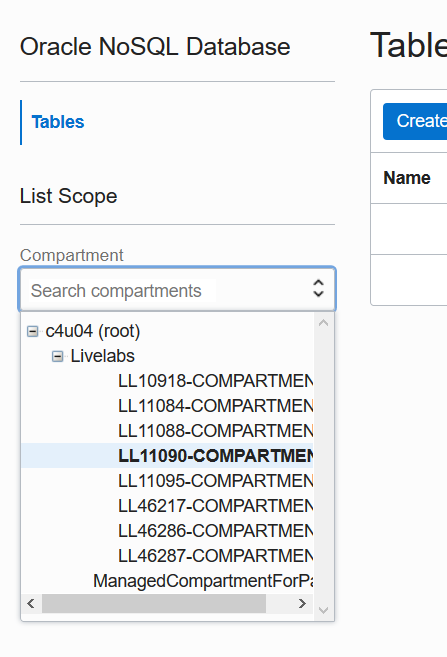
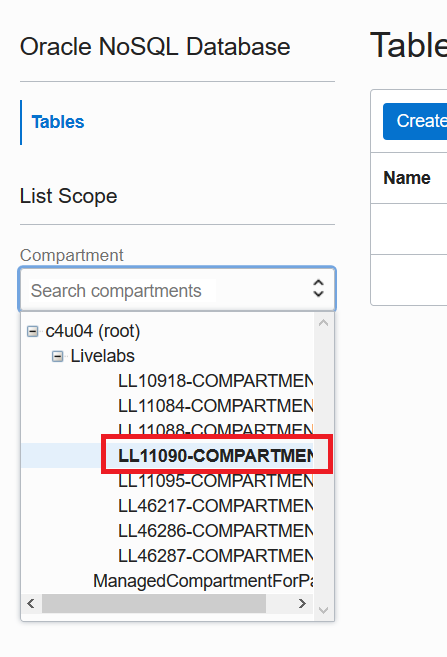
setup-environment - review

Changed region(s): [[0.2036, 0.6393, 0.7562, 0.7306]]

diff --git a/video-on-demand-with-nosql-database/setup-environment/setup-environment-green.md b/video-on-demand-with-nosql-database/setup-environment/setup-environment-green.md
@@ -22,19 +22,42 @@ This lab assumes you have:
 
 ## Task 1: Get Compartment OCID
 
-Once you LiveLabs test environment was set up, you should have clicked on a button saying to 'Attend the Workshop.'This will take you to a screen that looks similar to this.
+Once you LiveLabs test environment was set up, you should have clicked on a button
+saying to 'Attend the Workshop.'This will take you to a screen that looks similar to this.
 
-  ![](images/green-button.png)
+  ![green-button](images/green-button.png)
 
-This environment does not allow you to create any compartments. Please take note of the compartment assigned. Under the **Compartment** is the **Compartment OCID.** Copy your **Compartment OCID** with the copy button and save for step 10 in Task 2. Paste it into notepad or some text file for use.
-
-Please make note of the **Region** you are assigned. If you are assigned Phoenix, then you will be able to create Always Free NoSQL tables. If you are in another region, then you will be creating paid tables. This information is important for Lab 3. There are no costs to HOL users when creating and using paid tables.
+This environment does not allow you to create any compartments. Please take note
+of the compartment assigned. Under the **Compartment** is the **Compartment OCID.**
+Copy your **Compartment OCID** with the copy button and save for features steps.
+Paste it into notepad or some text file for use.
 
 ## Task 2: Get Data and Code Bundle
 
-In this task we will copy over a data bundle stored on object storage and place that in the Cloud Shell.
+In this task we will copy over a data bundle stored on object storage and place
+that in the Cloud Shell.
 
-1. Execute the following in your Cloud Shell.
+1. In this step we need to execute a few commands in the Cloud Shell.
+To start the Cloud Shell, we have to select our compartment first.
+Click on the 'hamburger' menu on the top left. Click on **Databases**
+and then click on **Tables**.
+
+    ![compartment-livelab](images/compartment-livelab.png)
+
+2. In the **Compartment** drop down on the left, pick you compartment.
+In Task 1, you should have taken note of your compartment. To find it, expand
+the root node (**c4u04**), then expand the **Livelabs** node.
+Your compartment should be listed under there.
+In this example we are using **LL11090-COMPARTMENT**.
+
+    ![pick-compartment](images/pick-compartment.png)
+
+3. Open the **Cloud Shell** in the top right menu. It can take about 2 minutes
+to get the Cloud Shell started.
+
+    ![cloud-shell](images/cloud-shell.png)
+
+4. Execute the following in your Cloud Shell.
 
     ````
     <copy>
@@ -45,22 +68,53 @@ In this task we will copy over a data bundle stored on object storage and place 
     </copy>
     ````
 
-2. Exit from Cloud Shell
+5. Exit from Cloud Shell
+
+6. Open the **OCI Code Editor** in the top right menu. It can take about 2 minutes
+to get the Code Editor started. You can continue the next Task. Cloud Editor
+will be used only in the Lab4
+
+    ![cloud-oci-editor](images/cloud-oci-editor.png)
 
 
 ## Task 3: Understand Credentials, and Policies
 
-**Oracle NoSQL Database Cloud Service uses Oracle Cloud Infrastructure Identity and Access Management to provide secure access to Oracle Cloud.** Oracle Cloud Infrastructure Identity and Access Management enables you to create user accounts and give users permission to inspect, read, use, or manage tables. Credentials are used for connecting your application to the service and are associated with a specific user.
+**Oracle NoSQL Database Cloud Service uses Oracle Cloud Infrastructure Identity
+and Access Management to provide secure access to Oracle Cloud.** Oracle Cloud
+Infrastructure Identity and Access Management enables you to create user accounts
+and give users permission to inspect, read, use, or manage tables.
+Credentials are used for connecting your application to the service and are
+associated with a specific user.
 
-The Oracle NoSQL Database SDKs allow you to provide the credentials to an application in multiple ways. The SDKs support a configuration file as well as one or more interfaces that allow direct specification of the information. You can use the SignatureProvider API to supply your credentials to NoSQL Database. Oracle NoSQL has SDKs in the following languages:  Java, Node.js, Python, Go, Spring and C#.
+The Oracle NoSQL Database SDKs allow you to provide the credentials to an application
+in multiple ways. The SDKs support a configuration file as well as one or more
+interfaces that allow direct specification of the information. You can use the
+SignatureProvider API to supply your credentials to NoSQL Database.
+Oracle NoSQL has SDKs in the following languages:  Java, Node.js, Python, Go, Spring and C#.
 
-Another way to handle authentication is with Instance and Resource Principals. The Oracle NoSQL SDKs support both of them. Resource principals are primarily used when authenticating from functions.
+Another way to handle authentication is with Instance and Resource Principals.
+The Oracle NoSQL SDKs support both of them. Resource principals are primarily
+used when authenticating from functions.
 
-Instance Principals is a capability in Oracle Cloud Infrastructure Identity and Access Management (IAM) that lets you make service calls from an instance. With instance principals, you don’t need to configure user credentials or rotate the credentials. Instances themselves are a principal type in IAM and are set up in IAM. You can think of them as an IAM service feature that enables instances to be authorized actors (or principals) to perform actions on service resources.
+Instance Principals is a capability in Oracle Cloud Infrastructure Identity
+and Access Management (IAM) that lets you make service calls from an instance.
+With instance principals, you don’t need to configure user credentials or
+rotate the credentials. Instances themselves are a principal type in IAM and
+are set up in IAM. You can think of them as an IAM service feature that enables
+instances to be authorized actors (or principals) to perform actions on service resources.
 
-Oracle NoSQL Database Cloud service has three different resource types, namely, nosql-tables, nosql-rows, and nosql-indexes. It also has one aggregate resource called nosql-family. Policies are created that allow a group to work in certain ways with specific types of resources such as nosql-tables in a particular compartment. All NoSQL tables belong to a defined compartment. In Task 1 of this Lab, we created the demonosql compartment and this is where we will create our tables.
+Oracle NoSQL Database Cloud service has three different resource types, namely,
+nosql-tables, nosql-rows, and nosql-indexes. It also has one aggregate resource
+called nosql-family. Policies are created that allow a group to work in certain
+ways with specific types of resources such as nosql-tables in a particular
+compartment. All NoSQL tables belong to a defined compartment.
+In Task 1 of this Lab, we created the demonosql compartment and this is where
+ we will create our tables.
 
-You can use **Instance Principals** to do the connection to NoSQL Cloud Service as shown below in the Node.js example instead of specifying the credentials. Once they are set up, they are simple to use because all you need to do is call the appropriate authorization constructor.
+You can use **Instance Principals** to do the connection to NoSQL Cloud Service
+as shown below in the Node.js example instead of specifying the credentials.
+Once they are set up, they are simple to use because all you need to do is call
+the appropriate authorization constructor.
 
 **NoSQL Database Node.js SDK**
 ```
@@ -76,7 +130,9 @@ function createClientResource() {
   });
 }
 ```
-In the next labs we are going to be running application code and we need an instance to run that from. We will run this application using Cloud Shell using another way called delegation token
+In the next labs we are going to be running application code and we need an
+instance to run that from. We will run this application using Cloud Shell
+using another way called delegation token
 
 ```
 function createClientResource() {

diff --git a/video-on-demand-with-nosql-database/setup-environment/setup-environment.md b/video-on-demand-with-nosql-database/setup-environment/setup-environment.md
@@ -22,25 +22,37 @@ This lab assumes you have:
 
 ## Task 1: Create a Compartment
 
-1. Log into the Oracle Cloud Console using your tenancy. Please make note of what region you are at.
+1. Log into the Oracle Cloud Console using your tenancy. Please make note of
+what region you are at.
 
-    ![](images/console-image.png)
+    ![console-image](images/console-image.png)
 
-2. On left side drop down (left of Oracle Cloud banner), go to **Identity & Security** and then **Compartments.**
+2. On left side drop down (left of Oracle Cloud banner), go to **Identity & Security**
+and then **Compartments.**
 
-    ![](images/identity-security-compartment.png)
+    ![identity-security-compartment](images/identity-security-compartment.png)
 
 3. Click **Create Compartment.** This opens up a new window.
 
-  Enter **demonosql** as compartment **Name** field, enter some text into **Description** field and press **Create Compartment** button at bottom of window. The **Parent Compartment** field will display your current parent compartment -- make sure this is your **root** compartment, whatever that is for your case. This HOL assumes the 'demonosql' compartment is a child of the root compartment.
+  Enter **demonosql** as compartment **Name** field, enter some text into **Description**
+  field and press **Create Compartment** button at bottom of window.
+  The **Parent Compartment** field will display your current parent compartment --
+  make sure this is your **root** compartment, whatever that is for your case.
+  This HOL assumes the 'demonosql' compartment is a child of the root compartment.
 
-    ![](images/create-compartment.png)
+    ![create-compartment](images/create-compartment.png)
 
 ## Task 2: Get Data and Code Bundle
 
-In this task we will copy over a data bundle stored on object storage and place that in the Cloud Shell.
+In this task we will copy over a data bundle stored on object storage and
+place that in the Cloud Shell.
 
-1. Execute the following in your Cloud Shell.
+1. Open the **Cloud Shell** in the top right menu. It can take about 2 minutes
+to get the Cloud Shell started.
+
+    ![cloud-shell](images/cloud-shell.png)
+
+2. Execute the following in your Cloud Shell.
 
     ````
     <copy>
@@ -50,22 +62,52 @@ In this task we will copy over a data bundle stored on object storage and place 
     </copy>
     ````
 
-2. Exit from Cloud Shell
+3. Exit from Cloud Shell
 
+4. Open the **OCI Code Editor** in the top right menu. It can take about 2 minutes
+to get the Code Editor started. You can continue the next Task. Cloud Editor
+will be used only in the Lab4
+
+    ![cloud-oci-editor](images/cloud-oci-editor.png)
 
 ## Task 3: Understand Credentials, and Policies
 
-**Oracle NoSQL Database Cloud Service uses Oracle Cloud Infrastructure Identity and Access Management to provide secure access to Oracle Cloud.** Oracle Cloud Infrastructure Identity and Access Management enables you to create user accounts and give users permission to inspect, read, use, or manage tables. Credentials are used for connecting your application to the service and are associated with a specific user.
+**Oracle NoSQL Database Cloud Service uses Oracle Cloud Infrastructure Identity
+and Access Management to provide secure access to Oracle Cloud.** Oracle Cloud
+Infrastructure Identity and Access Management enables you to create user accounts
+and give users permission to inspect, read, use, or manage tables.
+Credentials are used for connecting your application to the service and are
+associated with a specific user.
 
-The Oracle NoSQL Database SDKs allow you to provide the credentials to an application in multiple ways. The SDKs support a configuration file as well as one or more interfaces that allow direct specification of the information. You can use the SignatureProvider API to supply your credentials to NoSQL Database. Oracle NoSQL has SDKs in the following languages:  Java, Node.js, Python, Go, Spring and C#.
+The Oracle NoSQL Database SDKs allow you to provide the credentials to an application
+in multiple ways. The SDKs support a configuration file as well as one or more
+interfaces that allow direct specification of the information. You can use the
+SignatureProvider API to supply your credentials to NoSQL Database.
+Oracle NoSQL has SDKs in the following languages:  Java, Node.js, Python, Go, Spring and C#.
 
-Another way to handle authentication is with Instance and Resource Principals. The Oracle NoSQL SDKs support both of them. Resource principals are primarily used when authenticating from functions.
+Another way to handle authentication is with Instance and Resource Principals.
+The Oracle NoSQL SDKs support both of them. Resource principals are primarily
+used when authenticating from functions.
 
-Instance Principals is a capability in Oracle Cloud Infrastructure Identity and Access Management (IAM) that lets you make service calls from an instance. With instance principals, you don’t need to configure user credentials or rotate the credentials. Instances themselves are a principal type in IAM and are set up in IAM. You can think of them as an IAM service feature that enables instances to be authorized actors (or principals) to perform actions on service resources.
+Instance Principals is a capability in Oracle Cloud Infrastructure Identity
+and Access Management (IAM) that lets you make service calls from an instance.
+With instance principals, you don’t need to configure user credentials or
+rotate the credentials. Instances themselves are a principal type in IAM and
+are set up in IAM. You can think of them as an IAM service feature that enables
+instances to be authorized actors (or principals) to perform actions on service resources.
 
-Oracle NoSQL Database Cloud service has three different resource types, namely, nosql-tables, nosql-rows, and nosql-indexes. It also has one aggregate resource called nosql-family. Policies are created that allow a group to work in certain ways with specific types of resources such as nosql-tables in a particular compartment. All NoSQL tables belong to a defined compartment. In Task 1 of this Lab, we created the demonosql compartment and this is where we will create our tables.
+Oracle NoSQL Database Cloud service has three different resource types, namely,
+nosql-tables, nosql-rows, and nosql-indexes. It also has one aggregate resource
+called nosql-family. Policies are created that allow a group to work in certain
+ways with specific types of resources such as nosql-tables in a particular
+compartment. All NoSQL tables belong to a defined compartment.
+In Task 1 of this Lab, we created the demonosql compartment and this is where
+ we will create our tables.
 
-You can use **Instance Principals** to do the connection to NoSQL Cloud Service as shown below in the Node.js example instead of specifying the credentials. Once they are set up, they are simple to use because all you need to do is call the appropriate authorization constructor.
+You can use **Instance Principals** to do the connection to NoSQL Cloud Service
+as shown below in the Node.js example instead of specifying the credentials.
+Once they are set up, they are simple to use because all you need to do is call
+the appropriate authorization constructor.
 
 **NoSQL Database Node.js SDK**
 ```
@@ -81,7 +123,9 @@ function createClientResource() {
   });
 }
 ```
-In the next labs we are going to be running application code and we need an instance to run that from. We will run this application using Cloud Shell using another way called delegation token
+In the next labs we are going to be running application code and we need an
+instance to run that from. We will run this application using Cloud Shell
+using another way called delegation token
 
 ```
 function createClientResource() {
